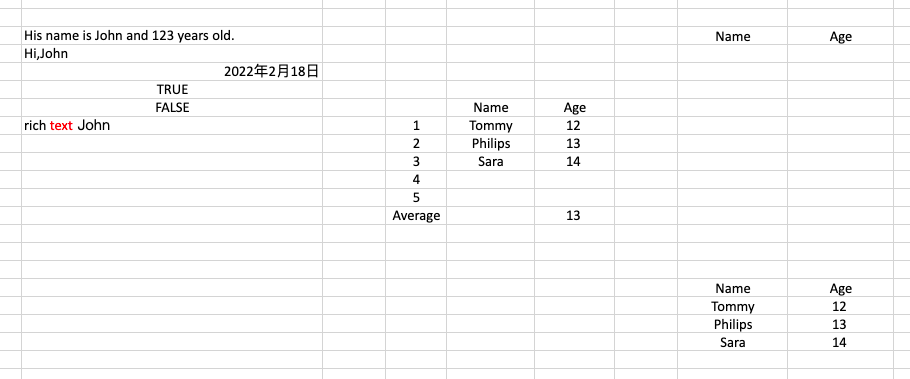
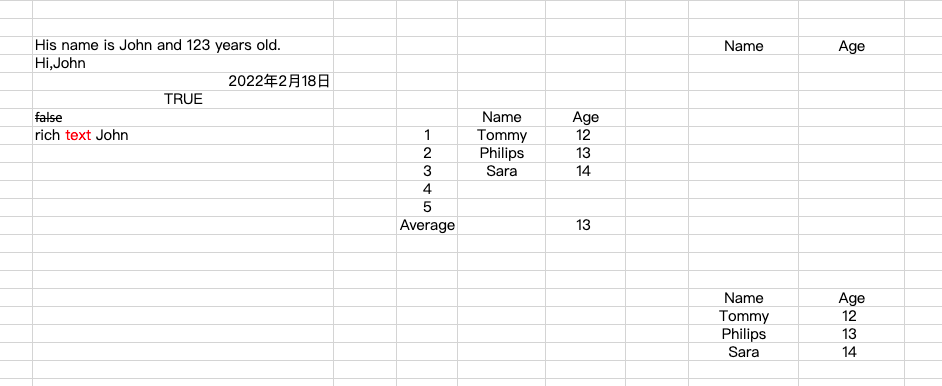
fix: more field for array value

Changed region(s): [[0.0, 0.0, 1.0, 0.6095], [0.0, 0.6385, 1.0, 0.9288], [0.0, 0.9578, 1.0, 0.9868]]

diff --git a/src/common.ts b/src/common.ts
@@ -3,10 +3,10 @@ import * as ExcelJS from 'exceljs'
 export default class JsExcelTemplateBase {
   protected workbook = new ExcelJS.Workbook()
 
-  public set(name: string, value: unknown, options?: Partial<{
+  public set(name: string, value: ExcelTemplateValue, options?: Partial<{
     duplicateCellIfArray: boolean
   }>) {
-    if (isArray(value)) {
+    if (Array.isArray(value)) {
       if (value.length === 0) {
         return
       }
@@ -14,14 +14,17 @@ export default class JsExcelTemplateBase {
         sheet.eachRow((row, rowIndex) => {
           let rowDuplicated = false
           const duplicateAndSetCell = (text: string, columnIndex: number) => {
-            const fieldName = this.getFieldName(text, name)
-            if (fieldName) {
+            const fieldNames = this.getFieldNames(text, name)
+            for (const fieldName of fieldNames) {
               if (options?.duplicateCellIfArray) {
-                for (let i = 1; i < value.length; i++) {
-                  row.getCell(columnIndex + i).value = row.getCell(columnIndex).value
+                if (!rowDuplicated) {
+                  for (let i = 1; i < value.length; i++) {
+                    row.getCell(columnIndex + i).value = row.getCell(columnIndex).value
+                  }
+                  rowDuplicated = true
                 }
                 for (let i = 0; i < value.length; i++) {
-                  this.setCell(row.getCell(columnIndex + i), `{${name}.${fieldName}}`, (value[i] as Record<string, unknown>)[fieldName])
+                  this.setCell(row.getCell(columnIndex + i), `{${name}.${fieldName}}`, value[i][fieldName])
                 }
               } else {
                 if (!rowDuplicated) {
@@ -31,7 +34,7 @@ export default class JsExcelTemplateBase {
                   rowDuplicated = true
                 }
                 for (let i = 0; i < value.length; i++) {
-                  this.setCell(sheet.getRow(rowIndex + i).getCell(columnIndex), `{${name}.${fieldName}}`, (value[i] as Record<string, unknown>)[fieldName])
+                  this.setCell(sheet.getRow(rowIndex + i).getCell(columnIndex), `{${name}.${fieldName}}`, value[i][fieldName])
                 }
               }
             }
@@ -41,7 +44,7 @@ export default class JsExcelTemplateBase {
               duplicateAndSetCell(cell.value, columnIndex)
             } else if (typeof cell.value === 'object' && cell.value) {
               const richTextCell = cell.value as ExcelJS.CellRichTextValue
-              if (richTextCell.richText && isArray(richTextCell.richText)) {
+              if (richTextCell.richText && Array.isArray(richTextCell.richText)) {
                 for (const richText of richTextCell.richText) {
                   duplicateAndSetCell(richText.text, columnIndex)
                 }
@@ -65,26 +68,35 @@ export default class JsExcelTemplateBase {
     return this.workbook.xlsx.writeBuffer()
   }
 
-  private getFieldName(text: string, name: string) {
-    const index = text.indexOf(`{${name}.`)
-    if (index >= 0) {
-      const endIndex = text.indexOf('}', index + `{${name}.`.length)
-      if (endIndex >= 0) {
-        return text.substring(index + `{${name}.`.length, endIndex)
+  private getFieldNames(text: string, name: string) {
+    const fieldNames: string[] = []
+    let position = 0
+    while (position >= 0 && position < text.length) {
+      const index = text.indexOf(`{${name}.`, position)
+      if (index >= 0) {
+        const endIndex = text.indexOf('}', index + `{${name}.`.length)
+        if (endIndex >= 0) {
+          fieldNames.push(text.substring(index + `{${name}.`.length, endIndex))
+          position = endIndex
+        } else {
+          break
+        }
+      } else {
+        break
       }
     }
-    return ''
+    return fieldNames
   }
 
-  private setCell(cell: ExcelJS.Cell, name: string, value: unknown) {
+  private setCell(cell: ExcelJS.Cell, name: string, value: ExcelJS.CellValue) {
     if (cell.value) {
       if (typeof cell.value === 'string') {
         if (cell.value.includes(name)) {
-          cell.value = cell.value === name ? value as ExcelJS.CellValue : cell.value.split(name).join(String(value))
+          cell.value = cell.value === name ? value : cell.value.split(name).join(String(value))
         }
       } else if (typeof cell.value === 'object') {
         const richTextCell = cell.value as ExcelJS.CellRichTextValue
-        if (richTextCell.richText && isArray(richTextCell.richText)) {
+        if (richTextCell.richText && Array.isArray(richTextCell.richText)) {
           for (const richText of richTextCell.richText) {
             if (richText.text.includes(name)) {
               richText.text = richText.text === name ? String(value) : richText.text.split(name).join(String(value))
@@ -96,4 +108,7 @@ export default class JsExcelTemplateBase {
   }
 }
 
-const isArray = (arg: unknown): arg is unknown[] => Array.isArray(arg)
+/**
+ * @public
+ */
+export type ExcelTemplateValue = ExcelJS.CellValue | Record<string, ExcelJS.CellValue>[]

diff --git a/demo/index.ts b/demo/index.ts
@@ -10,7 +10,16 @@ import JsExcelTemplate from '../dist/browser/browser'
   excelTemplate.set('age', 123)
   excelTemplate.set('now', new Date())
   excelTemplate.set('isBoy', true)
-  excelTemplate.set('isGirl', false)
+  excelTemplate.set('isGirl', {
+    richText: [
+      {
+        text: 'false',
+        font: {
+          strike: true,
+        },
+      },
+    ],
+  })
 
   const students = [
     { name: 'Tommy', age: 12 },

diff --git a/spec/index.ts b/spec/index.ts
@@ -8,7 +8,16 @@ test('JsExcelTemplate', async (t) => {
   excelTemplate.set('age', 123)
   excelTemplate.set('now', new Date())
   excelTemplate.set('isBoy', true)
-  excelTemplate.set('isGirl', false)
+  excelTemplate.set('isGirl', {
+    richText: [
+      {
+        text: 'false',
+        font: {
+          strike: true,
+        },
+      },
+    ],
+  })
 
   const students = [
     { name: 'Tommy', age: 12 },

diff --git a/demo/index2.html b/demo/index2.html
@@ -1,4 +1,4 @@
-<script src="../node_modules/xlsx/dist/xlsx.full.min.js"></script>
+<script src="../node_modules/exceljs/dist/exceljs.min.js"></script>
 <script src="../node_modules/file-saver/FileSaver.min.js"></script>
 <script src="../dist/browser/browser.min.js"></script>
 <script>

diff --git a/README.md b/README.md
@@ -53,7 +53,16 @@ excelTemplate.set("name", "John");
 excelTemplate.set("age", 123);
 excelTemplate.set("now", new Date());
 excelTemplate.set("isBoy", true);
-excelTemplate.set("isGirl", false);
+excelTemplate.set('isGirl', {
+  richText: [
+    {
+      text: 'false',
+      font: {
+        strike: true,
+      },
+    },
+  ],
+})
 
 const students = [
   { name: "Tommy", age: 12 },
